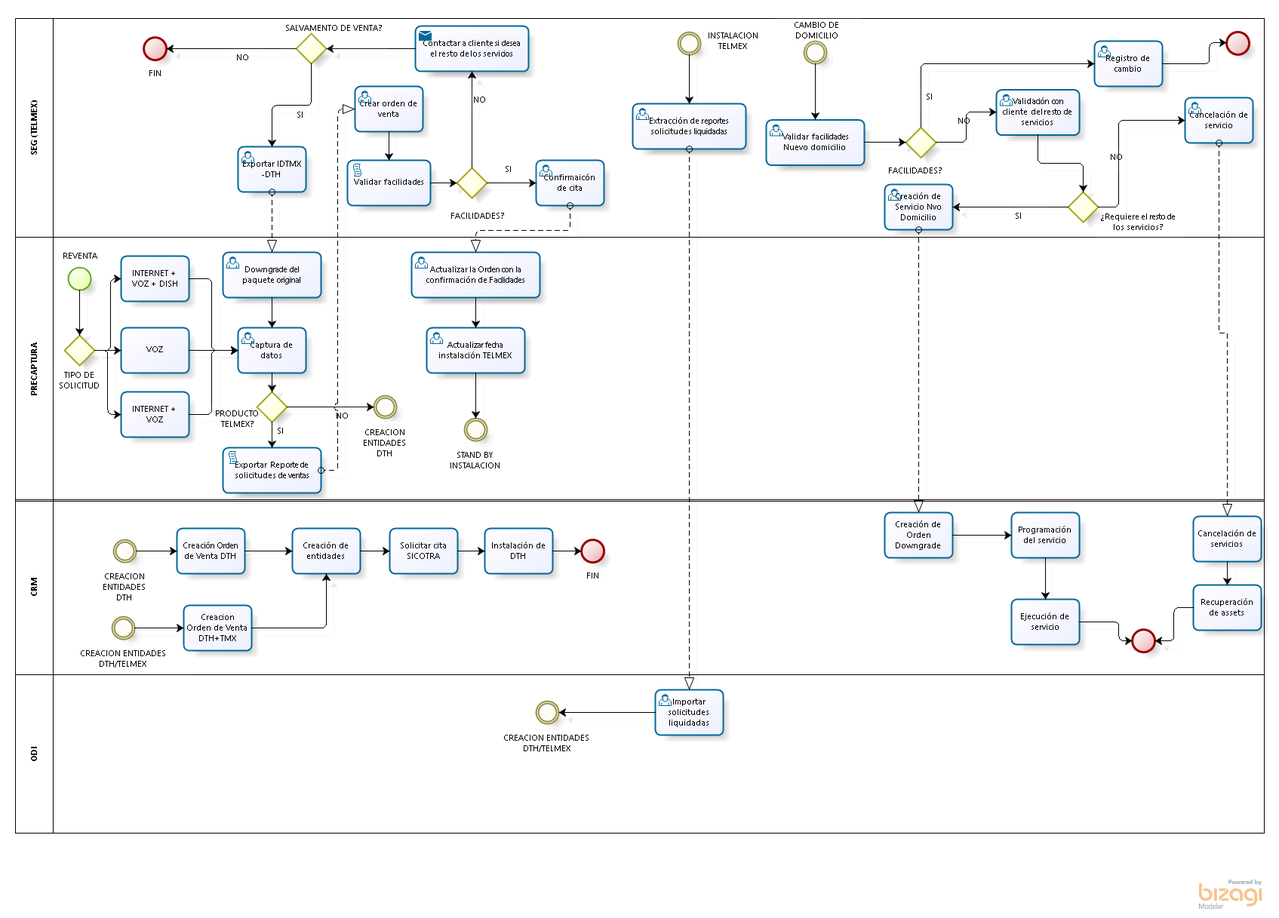
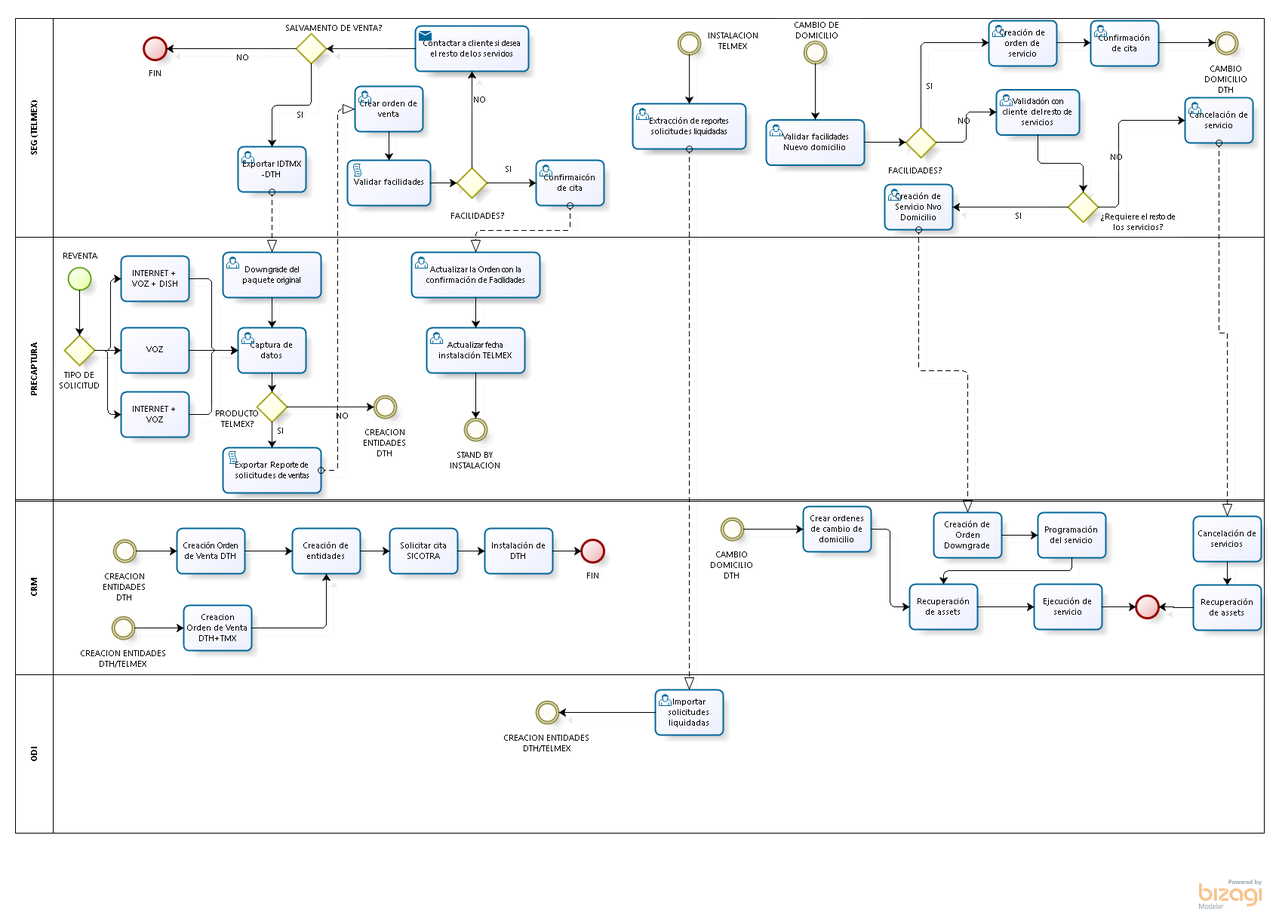
Add files via upload

diff --git a/libs/js/json/configuration.json.js b/libs/js/json/configuration.json.js
@@ -1,1 +1,1 @@
-Bizagi.AppModel = {"personalized":false,"userLogoName":"\\libs\\img\\biz-ex-logo.png","bizagiUrl":"http://www.bizagi.com","productName":"Bizagi Modeler","modelName":"DISH-NEXT_VENTA-CAMBIO DOMICILIO","publishDate":"26/02/2018 11:54:19 a. m.","pages":[{"id":"7cb50fa5-7a3c-45aa-be1c-2d9583645de9","name":"DISH-NEXT_VENTA-CAMBIO DOMICILIO","version":"1.0","author":"gabriel.lujano","image":"files\\diagrams\\DISH_NEXT_VENTA_CAMBIO_DOMICILIO.png","isSubprocessPage":false,"elements":[{"id":"93e064cd-c629-4cf5-a039-03b3dc27eac9","name":"SEG (TELMEX)","elementImage":"files\\bpmnElements\\Participant.png","imageBounds":{"points":[{"x":20.0,"y":24.0}],"radius":0.0,"height":290.0,"width":50.0,"shape":"rect"},"elementType":"Participant","properties":[],"pageElements":[{"id":"29b2dd46-ac85-41be-8745-073ad0f5984a","name":"CAMBIO DE DOMICILIO","elementImage":"files\\bpmnElements\\NoneIntermediate.png","imageBounds":{"points":[{"x":1065.0,"y":54.0}],"radius":15.0,"height":30.0,"width":30.0,"shape":"circle"},"elementType":"NoneIntermediate"},{"id":"8a56f3c5-ad15-4adf-b8b0-2a1c09bd55dc","name":"Validar  facilidades Nuevo domicilio","elementImage":"files\\bpmnElements\\UserTask.png","imageBounds":{"points":[{"x":1015.0,"y":158.444458}],"radius":0.0,"height":60.0,"width":130.0,"shape":"rect"},"elementType":"UserTask","properties":[]},{"id":"f31167ef-3e58-4c0e-a348-99304c43ca87","name":"FACILIDADES?","elementImage":"files\\bpmnElements\\ExclusiveGateway.png","imageBounds":{"points":[{"x":1200.0,"y":168.444458}],"radius":0.0,"height":40.0,"width":40.0,"shape":"poly"},"elementType":"ExclusiveGateway","properties":[],"pageElements":[{"name":"SI","elementType":"SequenceFlow","properties":[]},{"name":"NO","elementType":"SequenceFlow","properties":[]}]},{"id":"598e9e10-8f21-4f8a-815e-d01702e80421","name":"Validación con cliente  del resto de servicios","elementImage":"files\\bpmnElements\\UserTask.png","imageBounds":{"points":[{"x":1320.0,"y":118.444458}],"radius":0.0,"height":60.0,"width":110.0,"shape":"rect"},"elementType":"UserTask","properties":[]},{"id":"0ee065b0-9332-41a6-83a8-d59f9b373b6a","name":"¿Requiere el resto de los servicios?","elementImage":"files\\bpmnElements\\ExclusiveGateway.png","imageBounds":{"points":[{"x":1415.0,"y":254.0}],"radius":0.0,"height":40.0,"width":40.0,"shape":"poly"},"elementType":"ExclusiveGateway","properties":[],"pageElements":[{"name":"NO","elementType":"SequenceFlow","properties":[]},{"name":"SI","elementType":"SequenceFlow","properties":[]}]},{"id":"f0bffaee-71be-48f2-b4c1-9a22539a86d5","name":"Cancelación de servicio","elementImage":"files\\bpmnElements\\UserTask.png","imageBounds":{"points":[{"x":1570.0,"y":129.0}],"radius":0.0,"height":60.0,"width":90.0,"shape":"rect"},"elementType":"UserTask","properties":[]},{"id":"acc53f19-4f12-4bd7-89dd-0b43406d8d4f","name":"Registro de cambio","elementImage":"files\\bpmnElements\\UserTask.png","imageBounds":{"points":[{"x":1450.0,"y":54.0}],"radius":0.0,"height":60.0,"width":90.0,"shape":"rect"},"elementType":"UserTask","properties":[]},{"id":"f325c80d-65c0-476e-b683-92867bfa0efb","name":"Event","elementImage":"files\\bpmnElements\\NoneEnd.png","imageBounds":{"points":[{"x":1625.0,"y":41.77778}],"radius":15.0,"height":30.0,"width":30.0,"shape":"circle"},"elementType":"NoneEnd"},{"id":"e77a9377-ff3c-443c-bf80-e8d5c8d0941c","name":"Crear orden de venta","elementImage":"files\\bpmnElements\\UserTask.png","imageBounds":{"points":[{"x":470.0,"y":114.0}],"radius":0.0,"height":60.0,"width":90.0,"shape":"rect"},"elementType":"UserTask","properties":[]},{"id":"4dfccb45-7921-4bf5-9c07-d224dc0bb866","name":"Validar  facilidades","elementImage":"files\\bpmnElements\\ScriptTask.png","imageBounds":{"points":[{"x":460.0,"y":212.0}],"radius":0.0,"height":60.0,"width":110.0,"shape":"rect"},"elementType":"ScriptTask","properties":[]},{"id":"2c8036f7-3e22-478b-9892-5d5232a3b2d0","name":"FACILIDADES?","elementImage":"files\\bpmnElements\\ExclusiveGateway.png","imageBounds":{"points":[{"x":605.0,"y":222.0}],"radius":0.0,"height":40.0,"width":40.0,"shape":"poly"},"elementType":"ExclusiveGateway","properties":[],"pageElements":[{"name":"NO","elementType":"SequenceFlow","properties":[]},{"name":"SI","elementType":"SequenceFlow","properties":[]}]},{"id":"26c36fce-854c-45a4-9187-e0244161bcdf","name":"Contactar a cliente si desea el resto de los servicios","elementImage":"files\\bpmnElements\\SendTask.png","imageBounds":{"points":[{"x":550.0,"y":34.0}],"radius":0.0,"height":60.0,"width":150.0,"shape":"rect"},"elementType":"SendTask","properties":[{"id":"SendTaskImplementation","name":"Implementation","value":"WebService","type":"text"}]},{"id":"21fc4a87-d1b8-4bb2-acf2-2b48f1f00034","name":"SALVAMENTO DE VENTA?","elementImage":"files\\bpmnElements\\ExclusiveGateway.png","imageBounds":{"points":[{"x":392.0,"y":44.0}],"radius":0.0,"height":40.0,"width":40.0,"shape":"poly"},"elementType":"ExclusiveGateway","properties":[],"pageElements":[{"name":"NO","elementType":"SequenceFlow","properties":[]},{"name":"SI","elementType":"SequenceFlow","properties":[]}]},{"id":"dc6120c9-fd25-4e48-9eca-cac9e8092c54","name":"FIN","elementImage":"files\\bpmnElements\\NoneEnd.png","imageBounds":{"points":[{"x":190.0,"y":49.0}],"radius":15.0,"height":30.0,"width":30.0,"shape":"circle"},"elementType":"NoneEnd"},{"id":"b319792c-57cc-47d5-88d2-d68802c5dacb","name":"Confirmaicón de cita","elementImage":"files\\bpmnElements\\UserTask.png","imageBounds":{"points":[{"x":710.0,"y":212.0}],"radius":0.0,"height":60.0,"width":90.0,"shape":"rect"},"elementType":"UserTask","properties":[]},{"id":"0819e974-5805-4c60-904a-944859449d3f","name":"Creación de Servicio Nvo Domicilio","elementImage":"files\\bpmnElements\\UserTask.png","imageBounds":{"points":[{"x":1172.0,"y":244.0}],"radius":0.0,"height":60.0,"width":90.0,"shape":"rect"},"elementType":"UserTask","properties":[]},{"id":"45daec74-d1b5-4f09-9f84-82a99672325a","name":"Exportar IDTMX-DTH","elementImage":"files\\bpmnElements\\UserTask.png","imageBounds":{"points":[{"x":315.0,"y":194.0}],"radius":0.0,"height":60.0,"width":90.0,"shape":"rect"},"elementType":"UserTask","properties":[]},{"id":"3f8dc354-4ab1-4fbc-ac39-2dab57a00afa","name":"INSTALACION TELMEX","elementImage":"files\\bpmnElements\\NoneIntermediate.png","imageBounds":{"points":[{"x":898.0,"y":42.0}],"radius":15.0,"height":30.0,"width":30.0,"shape":"circle"},"elementType":"NoneIntermediate"},{"id":"7be1b341-8886-430c-bfd1-7e8eb0e116a4","name":"Extracción de reportes  solicitudes liquidadas","elementImage":"files\\bpmnElements\\UserTask.png","imageBounds":{"points":[{"x":838.0,"y":137.0}],"radius":0.0,"height":60.0,"width":150.0,"shape":"rect"},"elementType":"UserTask","properties":[]}]},{"id":"61bb27a2-3c1c-44e7-8fe9-9b02062eb794","name":"PRECAPTURA","elementImage":"files\\bpmnElements\\Participant.png","imageBounds":{"points":[{"x":20.0,"y":314.0}],"radius":0.0,"height":350.0,"width":50.0,"shape":"rect"},"elementType":"Participant","properties":[],"pageElements":[{"id":"601c1d0b-8e19-4b3e-9f3c-c071c3dc214e","name":"Event","elementImage":"files\\bpmnElements\\NoneStart.png","imageBounds":{"points":[{"x":90.0,"y":354.0}],"radius":15.0,"height":30.0,"width":30.0,"shape":"circle"},"elementType":"NoneStart"},{"id":"21f8afb0-a697-4f5a-9d4a-7888ab6b1f29","name":"TIPO DE SOLICITUD","elementImage":"files\\bpmnElements\\ExclusiveGateway.png","imageBounds":{"points":[{"x":85.0,"y":444.0}],"radius":0.0,"height":40.0,"width":40.0,"shape":"poly"},"elementType":"ExclusiveGateway","properties":[],"pageElements":[{"name":"VOZ","elementType":"SequenceFlow","properties":[]},{"name":"INTERNET + VOZ + DISH","elementType":"SequenceFlow","properties":[]},{"name":"INTERNET +  VOZ","elementType":"SequenceFlow","properties":[]}]},{"id":"ddacde49-5ae2-44d4-8fa7-fa46bc08dbd2","name":"VOZ","elementImage":"files\\bpmnElements\\AbstractTask.png","imageBounds":{"points":[{"x":160.0,"y":434.0}],"radius":0.0,"height":60.0,"width":90.0,"shape":"rect"},"elementType":"AbstractTask","properties":[]},{"id":"e2fbc10d-141e-4c3e-8de6-b02dd73b6629","name":"INTERNET + VOZ + DISH","elementImage":"files\\bpmnElements\\AbstractTask.png","imageBounds":{"points":[{"x":160.0,"y":339.0}],"radius":0.0,"height":60.0,"width":90.0,"shape":"rect"},"elementType":"AbstractTask","properties":[]},{"id":"f9f49f72-6207-4fb8-81ad-ed5b83daf9f1","name":"INTERNET +  VOZ","elementImage":"files\\bpmnElements\\AbstractTask.png","imageBounds":{"points":[{"x":160.0,"y":519.0}],"radius":0.0,"height":60.0,"width":90.0,"shape":"rect"},"elementType":"AbstractTask","properties":[]},{"id":"9ef95241-d4d6-4733-b77e-d209d63d24c7","name":"Downgrade del paquete original","elementImage":"files\\bpmnElements\\UserTask.png","imageBounds":{"points":[{"x":295.0,"y":334.0}],"radius":0.0,"height":60.0,"width":130.0,"shape":"rect"},"elementType":"UserTask","properties":[]},{"id":"256f5ab5-7436-4788-8b88-8d0a8ed46b7a","name":"Captura de datos","elementImage":"files\\bpmnElements\\UserTask.png","imageBounds":{"points":[{"x":315.0,"y":434.0}],"radius":0.0,"height":60.0,"width":90.0,"shape":"rect"},"elementType":"UserTask","properties":[]},{"id":"cfb941a8-4012-4174-97d4-6598748a3e4d","name":"PRODUCTO TELMEX?","elementImage":"files\\bpmnElements\\ExclusiveGateway.png","imageBounds":{"points":[{"x":340.0,"y":519.0}],"radius":0.0,"height":40.0,"width":40.0,"shape":"poly"},"elementType":"ExclusiveGateway","properties":[],"pageElements":[{"name":"SI","elementType":"SequenceFlow","properties":[]},{"name":"NO","elementType":"SequenceFlow","properties":[]}]},{"id":"df2d2a26-b8e1-4b58-a849-efcc2fe1d782","name":"Exportar  Reporte de solicitudes de ventas","elementImage":"files\\bpmnElements\\ScriptTask.png","imageBounds":{"points":[{"x":295.0,"y":593.0}],"radius":0.0,"height":60.0,"width":130.0,"shape":"rect"},"elementType":"ScriptTask","properties":[]},{"id":"b3f08775-b814-41f3-9c72-0837a99544e7","name":"Actualizar la Orden con la confirmación de Facilidades","elementImage":"files\\bpmnElements\\UserTask.png","imageBounds":{"points":[{"x":545.0,"y":334.0}],"radius":0.0,"height":60.0,"width":170.0,"shape":"rect"},"elementType":"UserTask","properties":[]},{"id":"d8f90e6f-49fa-4cf5-86f4-3f4b59e9bf58","name":"Actualizar fecha instalación TELMEX","elementImage":"files\\bpmnElements\\UserTask.png","imageBounds":{"points":[{"x":565.0,"y":434.0}],"radius":0.0,"height":60.0,"width":130.0,"shape":"rect"},"elementType":"UserTask","properties":[]},{"id":"7c8f5203-5f09-48ef-81a6-0b441251ffeb","name":"CREACION ENTIDADES DTH","elementImage":"files\\bpmnElements\\NoneIntermediate.png","imageBounds":{"points":[{"x":495.0,"y":524.0}],"radius":15.0,"height":30.0,"width":30.0,"shape":"circle"},"elementType":"NoneIntermediate"},{"id":"9d3bbc49-652e-464e-a19c-f2a67faa8e94","name":"STAND BY INSTALACION","elementImage":"files\\bpmnElements\\NoneIntermediate.png","imageBounds":{"points":[{"x":615.0,"y":554.0}],"radius":15.0,"height":30.0,"width":30.0,"shape":"circle"},"elementType":"NoneIntermediate"}]},{"id":"160b53e7-1fde-4417-ab4a-280543cc1820","name":"CRM","elementImage":"files\\bpmnElements\\Participant.png","imageBounds":{"points":[{"x":20.0,"y":662.0}],"radius":0.0,"height":232.0,"width":50.0,"shape":"rect"},"elementType":"Participant","properties":[],"pageElements":[{"id":"44122ce0-51f7-4ca6-9b0d-4d5b24743c73","name":"Creación de entidades","elementImage":"files\\bpmnElements\\AbstractTask.png","imageBounds":{"points":[{"x":387.0,"y":700.0}],"radius":0.0,"height":60.0,"width":90.0,"shape":"rect"},"elementType":"AbstractTask","properties":[]},{"id":"55fe1bdd-03b1-449e-833f-d05f4fcd7d9b","name":"FIN","elementImage":"files\\bpmnElements\\NoneEnd.png","imageBounds":{"points":[{"x":770.0,"y":715.0}],"radius":15.0,"height":30.0,"width":30.0,"shape":"circle"},"elementType":"NoneEnd"},{"id":"0a791ef5-bc81-49a5-a3da-fd4cfd7029e6","name":"Programación del servicio","elementImage":"files\\bpmnElements\\AbstractTask.png","imageBounds":{"points":[{"x":1340.0,"y":679.0}],"radius":0.0,"height":60.0,"width":90.0,"shape":"rect"},"elementType":"AbstractTask","properties":[]},{"id":"d1162d1f-9448-429c-8473-ae6ac31399bf","name":"Ejecución de servicio","elementImage":"files\\bpmnElements\\AbstractTask.png","imageBounds":{"points":[{"x":1340.0,"y":794.0}],"radius":0.0,"height":60.0,"width":90.0,"shape":"rect"},"elementType":"AbstractTask","properties":[]},{"id":"e2adbab7-5505-46c1-bc6e-a09f9c56946e","name":"Cancelación de servicios","elementImage":"files\\bpmnElements\\AbstractTask.png","imageBounds":{"points":[{"x":1581.0,"y":684.0}],"radius":0.0,"height":60.0,"width":90.0,"shape":"rect"},"elementType":"AbstractTask","properties":[]},{"id":"01e534e1-b53f-45c2-9838-3acd71c2b958","name":"Event","elementImage":"files\\bpmnElements\\NoneEnd.png","imageBounds":{"points":[{"x":1500.0,"y":834.0}],"radius":15.0,"height":30.0,"width":30.0,"shape":"circle"},"elementType":"NoneEnd"},{"id":"cc1445f6-6a79-4873-9ddd-98e4d60ec6e3","name":"Creación de Orden Downgrade","elementImage":"files\\bpmnElements\\AbstractTask.png","imageBounds":{"points":[{"x":1172.0,"y":679.0}],"radius":0.0,"height":60.0,"width":90.0,"shape":"rect"},"elementType":"AbstractTask","properties":[]},{"id":"4623ca73-1e5b-4260-8541-f18c4fc24b88","name":"CREACION ENTIDADES DTH","elementImage":"files\\bpmnElements\\NoneIntermediate.png","imageBounds":{"points":[{"x":150.0,"y":715.0}],"radius":15.0,"height":30.0,"width":30.0,"shape":"circle"},"elementType":"NoneIntermediate"},{"id":"ad23f92e-bb24-4e8e-b37b-ffbf5ba85b90","name":"Creación Orden de Venta DTH","elementImage":"files\\bpmnElements\\AbstractTask.png","imageBounds":{"points":[{"x":234.0,"y":700.0}],"radius":0.0,"height":60.0,"width":90.0,"shape":"rect"},"elementType":"AbstractTask","properties":[]},{"id":"9f5be219-9289-421a-8be5-4b26ff894f86","name":"CREACION ENTIDADES  DTH/TELMEX","elementImage":"files\\bpmnElements\\NoneIntermediate.png","imageBounds":{"points":[{"x":148.0,"y":817.0}],"radius":15.0,"height":30.0,"width":30.0,"shape":"circle"},"elementType":"NoneIntermediate"},{"id":"10987a7f-196f-413f-988e-0fb62289c49e","name":"Creacion  Orden de Venta DTH+TMX","elementImage":"files\\bpmnElements\\AbstractTask.png","imageBounds":{"points":[{"x":243.0,"y":802.0}],"radius":0.0,"height":60.0,"width":90.0,"shape":"rect"},"elementType":"AbstractTask","properties":[]},{"id":"fda1c841-83f0-44a7-8141-919d2be2f7d8","name":"Solicitar cita SICOTRA","elementImage":"files\\bpmnElements\\AbstractTask.png","imageBounds":{"points":[{"x":516.0,"y":700.0}],"radius":0.0,"height":60.0,"width":90.0,"shape":"rect"},"elementType":"AbstractTask","properties":[]},{"id":"325657fa-8fec-433c-8c7e-7a5137c19567","name":"Instalación de DTH","elementImage":"files\\bpmnElements\\AbstractTask.png","imageBounds":{"points":[{"x":642.0,"y":700.0}],"radius":0.0,"height":60.0,"width":90.0,"shape":"rect"},"elementType":"AbstractTask","properties":[]},{"id":"cc4b4262-dc74-4fce-8e33-9af2ae756a2e","name":"Recuperación de assets","elementImage":"files\\bpmnElements\\AbstractTask.png","imageBounds":{"points":[{"x":1581.0,"y":775.0}],"radius":0.0,"height":60.0,"width":90.0,"shape":"rect"},"elementType":"AbstractTask","properties":[]}]},{"id":"bd2d35d8-77a2-49b0-9a4a-4ad3ebb2ca4c","name":"ODI","elementImage":"files\\bpmnElements\\Participant.png","imageBounds":{"points":[{"x":20.0,"y":894.0}],"radius":0.0,"height":210.0,"width":50.0,"shape":"rect"},"elementType":"Participant","properties":[],"pageElements":[{"id":"387c8582-21ab-43be-bb01-14489b8d60e3","name":"Importar solicitudes  liquidadas","elementImage":"files\\bpmnElements\\UserTask.png","imageBounds":{"points":[{"x":868.0,"y":914.0}],"radius":0.0,"height":60.0,"width":90.0,"shape":"rect"},"elementType":"UserTask","properties":[]},{"id":"57cd7388-bf6b-4f4e-8ec6-513bf64941ad","name":"CREACION ENTIDADES  DTH/TELMEX","elementImage":"files\\bpmnElements\\NoneIntermediate.png","imageBounds":{"points":[{"x":710.0,"y":929.0}],"radius":15.0,"height":30.0,"width":30.0,"shape":"circle"},"elementType":"NoneIntermediate"}]}]}],"texts":{"tableOfContents":"Table of Contents","pageNumber":"Page","pageNumberLabelOf":"of","version":"Version","author":"Author","description":"Description","mainPool":"Main Process","mainPoolDescription":"Main Process Description","processDiagrams":"Process Diagrams","processElements":"Process Elements","elements":"Process Elements","defaultElementName":"Element","performers":"Performers","connectors":"Connectors","connector":"Connector","home":"Home","search":"Search","goToParentProcess":"<< Go to Parent Process","visitBizagi":"Visit bizagi.com","contains":"Contains {0} Sub-Processes","showAll":"Show all","fullScreen":"Full screen","zoomIn":"Zoom In","zoomOut":"Zoom Out","close":"Close","menu":"Menu: ","errorPage":"Error when visualizing page","process":"Process","subProcess":"Published Sub-Processes","contain":"Contains","checkAttributes":"Check attributes","checkOverview":"Check overview","unavailableResource":"Unavailable resource","localResource":"Resource can be accessed locally","performer":"Performer","linktoimage":"Link to Image","presentationAction":"Presentation Actions","searchGlobal":"Search all","searchLocal":"Search in this process","searchResults":"No Results Found","titlePage":"Start","emptyElement":"This element has not yet been documented","unsupported":"Your browser does not support content displayed by this page. <br> We recommend you upgrading your browser.","details":"Details","expand":"Expand","mainPoolProperties":"Main Process properties","cannotVisualize":"The page cannot be displayed","resourceNotFound":"The requested resource was not found:","applyTheme":"Applying new theme"},"searchMap":[{"containerId":"7cb50fa5-7a3c-45aa-be1c-2d9583645de9","containerName":"DISH-NEXT_VENTA-CAMBIO DOMICILIO","isSubprocess":false,"elements":[{"id":"93e064cd-c629-4cf5-a039-03b3dc27eac9","value":"SEG (TELMEX)"},{"id":"f31167ef-3e58-4c0e-a348-99304c43ca87","value":"FACILIDADES?"},{"id":"f325c80d-65c0-476e-b683-92867bfa0efb","value":""},{"id":"e77a9377-ff3c-443c-bf80-e8d5c8d0941c","value":"Crear orden de venta"},{"id":"2c8036f7-3e22-478b-9892-5d5232a3b2d0","value":"FACILIDADES?"},{"id":"4dfccb45-7921-4bf5-9c07-d224dc0bb866","value":"Validar  facilidades"},{"id":"21fc4a87-d1b8-4bb2-acf2-2b48f1f00034","value":"SALVAMENTO DE VENTA?"},{"id":"dc6120c9-fd25-4e48-9eca-cac9e8092c54","value":"FIN"},{"id":"0ee065b0-9332-41a6-83a8-d59f9b373b6a","value":"¿Requiere el resto de los servicios?"},{"id":"29b2dd46-ac85-41be-8745-073ad0f5984a","value":"CAMBIO DE DOMICILIO"},{"id":"b319792c-57cc-47d5-88d2-d68802c5dacb","value":"Confirmaicón de cita"},{"id":"3f8dc354-4ab1-4fbc-ac39-2dab57a00afa","value":"INSTALACION TELMEX"},{"id":"7be1b341-8886-430c-bfd1-7e8eb0e116a4","value":"Extracción de reportes  solicitudes liquidadas"},{"id":"26c36fce-854c-45a4-9187-e0244161bcdf","value":"Contactar a cliente si desea el resto de los servicios"},{"id":"0819e974-5805-4c60-904a-944859449d3f","value":"Creación de Servicio Nvo Domicilio"},{"id":"598e9e10-8f21-4f8a-815e-d01702e80421","value":"Validación con cliente  del resto de servicios"},{"id":"acc53f19-4f12-4bd7-89dd-0b43406d8d4f","value":"Registro de cambio"},{"id":"f0bffaee-71be-48f2-b4c1-9a22539a86d5","value":"Cancelación de servicio"},{"id":"45daec74-d1b5-4f09-9f84-82a99672325a","value":"Exportar IDTMX-DTH"},{"id":"8a56f3c5-ad15-4adf-b8b0-2a1c09bd55dc","value":"Validar  facilidades Nuevo domicilio"},{"id":"61bb27a2-3c1c-44e7-8fe9-9b02062eb794","value":"PRECAPTURA"},{"id":"601c1d0b-8e19-4b3e-9f3c-c071c3dc214e","value":""},{"id":"f9f49f72-6207-4fb8-81ad-ed5b83daf9f1","value":"INTERNET +  VOZ"},{"id":"ddacde49-5ae2-44d4-8fa7-fa46bc08dbd2","value":"VOZ"},{"id":"e2fbc10d-141e-4c3e-8de6-b02dd73b6629","value":"INTERNET + VOZ + DISH"},{"id":"21f8afb0-a697-4f5a-9d4a-7888ab6b1f29","value":"TIPO DE SOLICITUD"},{"id":"256f5ab5-7436-4788-8b88-8d0a8ed46b7a","value":"Captura de datos"},{"id":"df2d2a26-b8e1-4b58-a849-efcc2fe1d782","value":"Exportar  Reporte de solicitudes de ventas"},{"id":"cfb941a8-4012-4174-97d4-6598748a3e4d","value":"PRODUCTO TELMEX?"},{"id":"b3f08775-b814-41f3-9c72-0837a99544e7","value":"Actualizar la Orden con la confirmación de Facilidades"},{"id":"7c8f5203-5f09-48ef-81a6-0b441251ffeb","value":"CREACION ENTIDADES DTH"},{"id":"9ef95241-d4d6-4733-b77e-d209d63d24c7","value":"Downgrade del paquete original"},{"id":"d8f90e6f-49fa-4cf5-86f4-3f4b59e9bf58","value":"Actualizar fecha instalación TELMEX"},{"id":"9d3bbc49-652e-464e-a19c-f2a67faa8e94","value":"STAND BY INSTALACION"},{"id":"160b53e7-1fde-4417-ab4a-280543cc1820","value":"CRM"},{"id":"44122ce0-51f7-4ca6-9b0d-4d5b24743c73","value":"Creación de entidades"},{"id":"55fe1bdd-03b1-449e-833f-d05f4fcd7d9b","value":"FIN"},{"id":"d1162d1f-9448-429c-8473-ae6ac31399bf","value":"Ejecución de servicio"},{"id":"01e534e1-b53f-45c2-9838-3acd71c2b958","value":""},{"id":"0a791ef5-bc81-49a5-a3da-fd4cfd7029e6","value":"Programación del servicio"},{"id":"e2adbab7-5505-46c1-bc6e-a09f9c56946e","value":"Cancelación de servicios"},{"id":"cc1445f6-6a79-4873-9ddd-98e4d60ec6e3","value":"Creación de Orden Downgrade"},{"id":"4623ca73-1e5b-4260-8541-f18c4fc24b88","value":"CREACION ENTIDADES DTH"},{"id":"fda1c841-83f0-44a7-8141-919d2be2f7d8","value":"Solicitar cita SICOTRA"},{"id":"325657fa-8fec-433c-8c7e-7a5137c19567","value":"Instalación de DTH"},{"id":"9f5be219-9289-421a-8be5-4b26ff894f86","value":"CREACION ENTIDADES  DTH/TELMEX"},{"id":"10987a7f-196f-413f-988e-0fb62289c49e","value":"Creacion  Orden de Venta DTH+TMX"},{"id":"ad23f92e-bb24-4e8e-b37b-ffbf5ba85b90","value":"Creación Orden de Venta DTH"},{"id":"cc4b4262-dc74-4fce-8e33-9af2ae756a2e","value":"Recuperación de assets"},{"id":"bd2d35d8-77a2-49b0-9a4a-4ad3ebb2ca4c","value":"ODI"},{"id":"57cd7388-bf6b-4f4e-8ec6-513bf64941ad","value":"CREACION ENTIDADES  DTH/TELMEX"},{"id":"387c8582-21ab-43be-bb01-14489b8d60e3","value":"Importar solicitudes  liquidadas"}]}]}
+Bizagi.AppModel = {"personalized":false,"userLogoName":"\\libs\\img\\biz-ex-logo.png","bizagiUrl":"http://www.bizagi.com","productName":"Bizagi Modeler","modelName":"DISH-NEXT_VENTA-CAMBIO DOMICILIO","publishDate":"27/02/2018 11:08:00 a. m.","pages":[{"id":"7cb50fa5-7a3c-45aa-be1c-2d9583645de9","name":"DISH-NEXT_VENTA-CAMBIO DOMICILIO","version":"1.0","author":"gabriel.lujano","image":"files\\diagrams\\DISH_NEXT_VENTA_CAMBIO_DOMICILIO.png","isSubprocessPage":false,"elements":[{"id":"93e064cd-c629-4cf5-a039-03b3dc27eac9","name":"SEG (TELMEX)","elementImage":"files\\bpmnElements\\Participant.png","imageBounds":{"points":[{"x":20.0,"y":24.0}],"radius":0.0,"height":290.0,"width":50.0,"shape":"rect"},"elementType":"Participant","properties":[],"pageElements":[{"id":"29b2dd46-ac85-41be-8745-073ad0f5984a","name":"CAMBIO DE DOMICILIO","elementImage":"files\\bpmnElements\\NoneIntermediate.png","imageBounds":{"points":[{"x":1065.0,"y":54.0}],"radius":15.0,"height":30.0,"width":30.0,"shape":"circle"},"elementType":"NoneIntermediate"},{"id":"8a56f3c5-ad15-4adf-b8b0-2a1c09bd55dc","name":"Validar  facilidades Nuevo domicilio","elementImage":"files\\bpmnElements\\UserTask.png","imageBounds":{"points":[{"x":1015.0,"y":158.444458}],"radius":0.0,"height":60.0,"width":130.0,"shape":"rect"},"elementType":"UserTask","properties":[]},{"id":"f31167ef-3e58-4c0e-a348-99304c43ca87","name":"FACILIDADES?","elementImage":"files\\bpmnElements\\ExclusiveGateway.png","imageBounds":{"points":[{"x":1200.0,"y":168.444458}],"radius":0.0,"height":40.0,"width":40.0,"shape":"poly"},"elementType":"ExclusiveGateway","properties":[],"pageElements":[{"name":"SI","elementType":"SequenceFlow","properties":[]},{"name":"NO","elementType":"SequenceFlow","properties":[]}]},{"id":"598e9e10-8f21-4f8a-815e-d01702e80421","name":"Validación con cliente  del resto de servicios","elementImage":"files\\bpmnElements\\UserTask.png","imageBounds":{"points":[{"x":1320.0,"y":118.444458}],"radius":0.0,"height":60.0,"width":110.0,"shape":"rect"},"elementType":"UserTask","properties":[]},{"id":"0ee065b0-9332-41a6-83a8-d59f9b373b6a","name":"¿Requiere el resto de los servicios?","elementImage":"files\\bpmnElements\\ExclusiveGateway.png","imageBounds":{"points":[{"x":1415.0,"y":254.0}],"radius":0.0,"height":40.0,"width":40.0,"shape":"poly"},"elementType":"ExclusiveGateway","properties":[],"pageElements":[{"name":"NO","elementType":"SequenceFlow","properties":[]},{"name":"SI","elementType":"SequenceFlow","properties":[]}]},{"id":"f0bffaee-71be-48f2-b4c1-9a22539a86d5","name":"Cancelación de servicio","elementImage":"files\\bpmnElements\\UserTask.png","imageBounds":{"points":[{"x":1570.0,"y":129.0}],"radius":0.0,"height":60.0,"width":90.0,"shape":"rect"},"elementType":"UserTask","properties":[]},{"id":"acc53f19-4f12-4bd7-89dd-0b43406d8d4f","name":"Creación de orden de servicio","elementImage":"files\\bpmnElements\\UserTask.png","imageBounds":{"points":[{"x":1310.0,"y":26.7777786}],"radius":0.0,"height":60.0,"width":90.0,"shape":"rect"},"elementType":"UserTask","properties":[]},{"id":"e77a9377-ff3c-443c-bf80-e8d5c8d0941c","name":"Crear orden de venta","elementImage":"files\\bpmnElements\\UserTask.png","imageBounds":{"points":[{"x":470.0,"y":114.0}],"radius":0.0,"height":60.0,"width":90.0,"shape":"rect"},"elementType":"UserTask","properties":[]},{"id":"4dfccb45-7921-4bf5-9c07-d224dc0bb866","name":"Validar  facilidades","elementImage":"files\\bpmnElements\\ScriptTask.png","imageBounds":{"points":[{"x":460.0,"y":212.0}],"radius":0.0,"height":60.0,"width":110.0,"shape":"rect"},"elementType":"ScriptTask","properties":[]},{"id":"2c8036f7-3e22-478b-9892-5d5232a3b2d0","name":"FACILIDADES?","elementImage":"files\\bpmnElements\\ExclusiveGateway.png","imageBounds":{"points":[{"x":605.0,"y":222.0}],"radius":0.0,"height":40.0,"width":40.0,"shape":"poly"},"elementType":"ExclusiveGateway","properties":[],"pageElements":[{"name":"NO","elementType":"SequenceFlow","properties":[]},{"name":"SI","elementType":"SequenceFlow","properties":[]}]},{"id":"26c36fce-854c-45a4-9187-e0244161bcdf","name":"Contactar a cliente si desea el resto de los servicios","elementImage":"files\\bpmnElements\\SendTask.png","imageBounds":{"points":[{"x":550.0,"y":34.0}],"radius":0.0,"height":60.0,"width":150.0,"shape":"rect"},"elementType":"SendTask","properties":[{"id":"SendTaskImplementation","name":"Implementation","value":"WebService","type":"text"}]},{"id":"21fc4a87-d1b8-4bb2-acf2-2b48f1f00034","name":"SALVAMENTO DE VENTA?","elementImage":"files\\bpmnElements\\ExclusiveGateway.png","imageBounds":{"points":[{"x":392.0,"y":44.0}],"radius":0.0,"height":40.0,"width":40.0,"shape":"poly"},"elementType":"ExclusiveGateway","properties":[],"pageElements":[{"name":"NO","elementType":"SequenceFlow","properties":[]},{"name":"SI","elementType":"SequenceFlow","properties":[]}]},{"id":"dc6120c9-fd25-4e48-9eca-cac9e8092c54","name":"FIN","elementImage":"files\\bpmnElements\\NoneEnd.png","imageBounds":{"points":[{"x":190.0,"y":49.0}],"radius":15.0,"height":30.0,"width":30.0,"shape":"circle"},"elementType":"NoneEnd"},{"id":"b319792c-57cc-47d5-88d2-d68802c5dacb","name":"Confirmaicón de cita","elementImage":"files\\bpmnElements\\UserTask.png","imageBounds":{"points":[{"x":710.0,"y":212.0}],"radius":0.0,"height":60.0,"width":90.0,"shape":"rect"},"elementType":"UserTask","properties":[]},{"id":"0819e974-5805-4c60-904a-944859449d3f","name":"Creación de Servicio Nvo Domicilio","elementImage":"files\\bpmnElements\\UserTask.png","imageBounds":{"points":[{"x":1172.0,"y":244.0}],"radius":0.0,"height":60.0,"width":90.0,"shape":"rect"},"elementType":"UserTask","properties":[]},{"id":"45daec74-d1b5-4f09-9f84-82a99672325a","name":"Exportar IDTMX-DTH","elementImage":"files\\bpmnElements\\UserTask.png","imageBounds":{"points":[{"x":315.0,"y":194.0}],"radius":0.0,"height":60.0,"width":90.0,"shape":"rect"},"elementType":"UserTask","properties":[]},{"id":"3f8dc354-4ab1-4fbc-ac39-2dab57a00afa","name":"INSTALACION TELMEX","elementImage":"files\\bpmnElements\\NoneIntermediate.png","imageBounds":{"points":[{"x":898.0,"y":42.0}],"radius":15.0,"height":30.0,"width":30.0,"shape":"circle"},"elementType":"NoneIntermediate"},{"id":"7be1b341-8886-430c-bfd1-7e8eb0e116a4","name":"Extracción de reportes  solicitudes liquidadas","elementImage":"files\\bpmnElements\\UserTask.png","imageBounds":{"points":[{"x":838.0,"y":137.0}],"radius":0.0,"height":60.0,"width":150.0,"shape":"rect"},"elementType":"UserTask","properties":[]},{"id":"33c91d8f-7d41-4180-ade1-7b37418c89e7","name":"Confirmación de cita","elementImage":"files\\bpmnElements\\UserTask.png","imageBounds":{"points":[{"x":1445.0,"y":26.7777786}],"radius":0.0,"height":60.0,"width":90.0,"shape":"rect"},"elementType":"UserTask","properties":[]},{"id":"217c520e-6acb-476d-832a-3e05e26f05cb","name":"CAMBIO DOMICILIO DTH","elementImage":"files\\bpmnElements\\NoneIntermediate.png","imageBounds":{"points":[{"x":1610.0,"y":41.77778}],"radius":15.0,"height":30.0,"width":30.0,"shape":"circle"},"elementType":"NoneIntermediate"}]},{"id":"61bb27a2-3c1c-44e7-8fe9-9b02062eb794","name":"PRECAPTURA","elementImage":"files\\bpmnElements\\Participant.png","imageBounds":{"points":[{"x":20.0,"y":314.0}],"radius":0.0,"height":350.0,"width":50.0,"shape":"rect"},"elementType":"Participant","properties":[],"pageElements":[{"id":"601c1d0b-8e19-4b3e-9f3c-c071c3dc214e","name":"Event","elementImage":"files\\bpmnElements\\NoneStart.png","imageBounds":{"points":[{"x":90.0,"y":354.0}],"radius":15.0,"height":30.0,"width":30.0,"shape":"circle"},"elementType":"NoneStart"},{"id":"21f8afb0-a697-4f5a-9d4a-7888ab6b1f29","name":"TIPO DE SOLICITUD","elementImage":"files\\bpmnElements\\ExclusiveGateway.png","imageBounds":{"points":[{"x":85.0,"y":444.0}],"radius":0.0,"height":40.0,"width":40.0,"shape":"poly"},"elementType":"ExclusiveGateway","properties":[],"pageElements":[{"name":"VOZ","elementType":"SequenceFlow","properties":[]},{"name":"INTERNET + VOZ + DISH","elementType":"SequenceFlow","properties":[]},{"name":"INTERNET +  VOZ","elementType":"SequenceFlow","properties":[]}]},{"id":"ddacde49-5ae2-44d4-8fa7-fa46bc08dbd2","name":"VOZ","elementImage":"files\\bpmnElements\\AbstractTask.png","imageBounds":{"points":[{"x":160.0,"y":434.0}],"radius":0.0,"height":60.0,"width":90.0,"shape":"rect"},"elementType":"AbstractTask","properties":[]},{"id":"e2fbc10d-141e-4c3e-8de6-b02dd73b6629","name":"INTERNET + VOZ + DISH","elementImage":"files\\bpmnElements\\AbstractTask.png","imageBounds":{"points":[{"x":160.0,"y":339.0}],"radius":0.0,"height":60.0,"width":90.0,"shape":"rect"},"elementType":"AbstractTask","properties":[]},{"id":"f9f49f72-6207-4fb8-81ad-ed5b83daf9f1","name":"INTERNET +  VOZ","elementImage":"files\\bpmnElements\\AbstractTask.png","imageBounds":{"points":[{"x":160.0,"y":519.0}],"radius":0.0,"height":60.0,"width":90.0,"shape":"rect"},"elementType":"AbstractTask","properties":[]},{"id":"9ef95241-d4d6-4733-b77e-d209d63d24c7","name":"Downgrade del paquete original","elementImage":"files\\bpmnElements\\UserTask.png","imageBounds":{"points":[{"x":295.0,"y":334.0}],"radius":0.0,"height":60.0,"width":130.0,"shape":"rect"},"elementType":"UserTask","properties":[]},{"id":"256f5ab5-7436-4788-8b88-8d0a8ed46b7a","name":"Captura de datos","elementImage":"files\\bpmnElements\\UserTask.png","imageBounds":{"points":[{"x":315.0,"y":434.0}],"radius":0.0,"height":60.0,"width":90.0,"shape":"rect"},"elementType":"UserTask","properties":[]},{"id":"cfb941a8-4012-4174-97d4-6598748a3e4d","name":"PRODUCTO TELMEX?","elementImage":"files\\bpmnElements\\ExclusiveGateway.png","imageBounds":{"points":[{"x":340.0,"y":519.0}],"radius":0.0,"height":40.0,"width":40.0,"shape":"poly"},"elementType":"ExclusiveGateway","properties":[],"pageElements":[{"name":"SI","elementType":"SequenceFlow","properties":[]},{"name":"NO","elementType":"SequenceFlow","properties":[]}]},{"id":"df2d2a26-b8e1-4b58-a849-efcc2fe1d782","name":"Exportar  Reporte de solicitudes de ventas","elementImage":"files\\bpmnElements\\ScriptTask.png","imageBounds":{"points":[{"x":295.0,"y":593.0}],"radius":0.0,"height":60.0,"width":130.0,"shape":"rect"},"elementType":"ScriptTask","properties":[]},{"id":"b3f08775-b814-41f3-9c72-0837a99544e7","name":"Actualizar la Orden con la confirmación de Facilidades","elementImage":"files\\bpmnElements\\UserTask.png","imageBounds":{"points":[{"x":545.0,"y":334.0}],"radius":0.0,"height":60.0,"width":170.0,"shape":"rect"},"elementType":"UserTask","properties":[]},{"id":"d8f90e6f-49fa-4cf5-86f4-3f4b59e9bf58","name":"Actualizar fecha instalación TELMEX","elementImage":"files\\bpmnElements\\UserTask.png","imageBounds":{"points":[{"x":565.0,"y":434.0}],"radius":0.0,"height":60.0,"width":130.0,"shape":"rect"},"elementType":"UserTask","properties":[]},{"id":"7c8f5203-5f09-48ef-81a6-0b441251ffeb","name":"CREACION ENTIDADES DTH","elementImage":"files\\bpmnElements\\NoneIntermediate.png","imageBounds":{"points":[{"x":495.0,"y":524.0}],"radius":15.0,"height":30.0,"width":30.0,"shape":"circle"},"elementType":"NoneIntermediate"},{"id":"9d3bbc49-652e-464e-a19c-f2a67faa8e94","name":"STAND BY INSTALACION","elementImage":"files\\bpmnElements\\NoneIntermediate.png","imageBounds":{"points":[{"x":615.0,"y":554.0}],"radius":15.0,"height":30.0,"width":30.0,"shape":"circle"},"elementType":"NoneIntermediate"}]},{"id":"160b53e7-1fde-4417-ab4a-280543cc1820","name":"CRM","elementImage":"files\\bpmnElements\\Participant.png","imageBounds":{"points":[{"x":20.0,"y":662.0}],"radius":0.0,"height":232.0,"width":50.0,"shape":"rect"},"elementType":"Participant","properties":[],"pageElements":[{"id":"44122ce0-51f7-4ca6-9b0d-4d5b24743c73","name":"Creación de entidades","elementImage":"files\\bpmnElements\\AbstractTask.png","imageBounds":{"points":[{"x":387.0,"y":700.0}],"radius":0.0,"height":60.0,"width":90.0,"shape":"rect"},"elementType":"AbstractTask","properties":[]},{"id":"55fe1bdd-03b1-449e-833f-d05f4fcd7d9b","name":"FIN","elementImage":"files\\bpmnElements\\NoneEnd.png","imageBounds":{"points":[{"x":770.0,"y":715.0}],"radius":15.0,"height":30.0,"width":30.0,"shape":"circle"},"elementType":"NoneEnd"},{"id":"0a791ef5-bc81-49a5-a3da-fd4cfd7029e6","name":"Programación del servicio","elementImage":"files\\bpmnElements\\AbstractTask.png","imageBounds":{"points":[{"x":1375.0,"y":679.0}],"radius":0.0,"height":60.0,"width":90.0,"shape":"rect"},"elementType":"AbstractTask","properties":[]},{"id":"d1162d1f-9448-429c-8473-ae6ac31399bf","name":"Ejecución de servicio","elementImage":"files\\bpmnElements\\AbstractTask.png","imageBounds":{"points":[{"x":1370.0,"y":774.0}],"radius":0.0,"height":60.0,"width":90.0,"shape":"rect"},"elementType":"AbstractTask","properties":[]},{"id":"e2adbab7-5505-46c1-bc6e-a09f9c56946e","name":"Cancelación de servicios","elementImage":"files\\bpmnElements\\AbstractTask.png","imageBounds":{"points":[{"x":1581.0,"y":684.0}],"radius":0.0,"height":60.0,"width":90.0,"shape":"rect"},"elementType":"AbstractTask","properties":[]},{"id":"01e534e1-b53f-45c2-9838-3acd71c2b958","name":"Event","elementImage":"files\\bpmnElements\\NoneEnd.png","imageBounds":{"points":[{"x":1505.0,"y":789.0}],"radius":15.0,"height":30.0,"width":30.0,"shape":"circle"},"elementType":"NoneEnd"},{"id":"cc1445f6-6a79-4873-9ddd-98e4d60ec6e3","name":"Creación de Orden Downgrade","elementImage":"files\\bpmnElements\\AbstractTask.png","imageBounds":{"points":[{"x":1237.0,"y":679.0}],"radius":0.0,"height":60.0,"width":90.0,"shape":"rect"},"elementType":"AbstractTask","properties":[]},{"id":"4623ca73-1e5b-4260-8541-f18c4fc24b88","name":"CREACION ENTIDADES DTH","elementImage":"files\\bpmnElements\\NoneIntermediate.png","imageBounds":{"points":[{"x":150.0,"y":715.0}],"radius":15.0,"height":30.0,"width":30.0,"shape":"circle"},"elementType":"NoneIntermediate"},{"id":"ad23f92e-bb24-4e8e-b37b-ffbf5ba85b90","name":"Creación Orden de Venta DTH","elementImage":"files\\bpmnElements\\AbstractTask.png","imageBounds":{"points":[{"x":234.0,"y":700.0}],"radius":0.0,"height":60.0,"width":90.0,"shape":"rect"},"elementType":"AbstractTask","properties":[]},{"id":"9f5be219-9289-421a-8be5-4b26ff894f86","name":"CREACION ENTIDADES  DTH/TELMEX","elementImage":"files\\bpmnElements\\NoneIntermediate.png","imageBounds":{"points":[{"x":148.0,"y":817.0}],"radius":15.0,"height":30.0,"width":30.0,"shape":"circle"},"elementType":"NoneIntermediate"},{"id":"10987a7f-196f-413f-988e-0fb62289c49e","name":"Creacion  Orden de Venta DTH+TMX","elementImage":"files\\bpmnElements\\AbstractTask.png","imageBounds":{"points":[{"x":243.0,"y":802.0}],"radius":0.0,"height":60.0,"width":90.0,"shape":"rect"},"elementType":"AbstractTask","properties":[]},{"id":"fda1c841-83f0-44a7-8141-919d2be2f7d8","name":"Solicitar cita SICOTRA","elementImage":"files\\bpmnElements\\AbstractTask.png","imageBounds":{"points":[{"x":516.0,"y":700.0}],"radius":0.0,"height":60.0,"width":90.0,"shape":"rect"},"elementType":"AbstractTask","properties":[]},{"id":"325657fa-8fec-433c-8c7e-7a5137c19567","name":"Instalación de DTH","elementImage":"files\\bpmnElements\\AbstractTask.png","imageBounds":{"points":[{"x":642.0,"y":700.0}],"radius":0.0,"height":60.0,"width":90.0,"shape":"rect"},"elementType":"AbstractTask","properties":[]},{"id":"cc4b4262-dc74-4fce-8e33-9af2ae756a2e","name":"Recuperación de assets","elementImage":"files\\bpmnElements\\AbstractTask.png","imageBounds":{"points":[{"x":1581.0,"y":775.0}],"radius":0.0,"height":60.0,"width":90.0,"shape":"rect"},"elementType":"AbstractTask","properties":[]},{"id":"a35dcea9-8237-4a17-82cf-d1ca4f0f570b","name":"CAMBIO DOMICILIO DTH","elementImage":"files\\bpmnElements\\NoneIntermediate.png","imageBounds":{"points":[{"x":955.0,"y":686.0}],"radius":15.0,"height":30.0,"width":30.0,"shape":"circle"},"elementType":"NoneIntermediate"},{"id":"58dc431d-3f97-4b42-a85d-f6ce0ece5247","name":"Crear ordenes de cambio de domicilio","elementImage":"files\\bpmnElements\\AbstractTask.png","imageBounds":{"points":[{"x":1064.0,"y":671.0}],"radius":0.0,"height":60.0,"width":90.0,"shape":"rect"},"elementType":"AbstractTask","properties":[]},{"id":"ee284326-548b-4f04-8001-5e419b252de0","name":"Recuperación de assets","elementImage":"files\\bpmnElements\\AbstractTask.png","imageBounds":{"points":[{"x":1205.0,"y":774.0}],"radius":0.0,"height":60.0,"width":90.0,"shape":"rect"},"elementType":"AbstractTask","properties":[]}]},{"id":"bd2d35d8-77a2-49b0-9a4a-4ad3ebb2ca4c","name":"ODI","elementImage":"files\\bpmnElements\\Participant.png","imageBounds":{"points":[{"x":20.0,"y":894.0}],"radius":0.0,"height":210.0,"width":50.0,"shape":"rect"},"elementType":"Participant","properties":[],"pageElements":[{"id":"387c8582-21ab-43be-bb01-14489b8d60e3","name":"Importar solicitudes  liquidadas","elementImage":"files\\bpmnElements\\UserTask.png","imageBounds":{"points":[{"x":868.0,"y":914.0}],"radius":0.0,"height":60.0,"width":90.0,"shape":"rect"},"elementType":"UserTask","properties":[]},{"id":"57cd7388-bf6b-4f4e-8ec6-513bf64941ad","name":"CREACION ENTIDADES  DTH/TELMEX","elementImage":"files\\bpmnElements\\NoneIntermediate.png","imageBounds":{"points":[{"x":710.0,"y":929.0}],"radius":15.0,"height":30.0,"width":30.0,"shape":"circle"},"elementType":"NoneIntermediate"}]}]}],"texts":{"tableOfContents":"Table of Contents","pageNumber":"Page","pageNumberLabelOf":"of","version":"Version","author":"Author","description":"Description","mainPool":"Main Process","mainPoolDescription":"Main Process Description","processDiagrams":"Process Diagrams","processElements":"Process Elements","elements":"Process Elements","defaultElementName":"Element","performers":"Performers","connectors":"Connectors","connector":"Connector","home":"Home","search":"Search","goToParentProcess":"<< Go to Parent Process","visitBizagi":"Visit bizagi.com","contains":"Contains {0} Sub-Processes","showAll":"Show all","fullScreen":"Full screen","zoomIn":"Zoom In","zoomOut":"Zoom Out","close":"Close","menu":"Menu: ","errorPage":"Error when visualizing page","process":"Process","subProcess":"Published Sub-Processes","contain":"Contains","checkAttributes":"Check attributes","checkOverview":"Check overview","unavailableResource":"Unavailable resource","localResource":"Resource can be accessed locally","performer":"Performer","linktoimage":"Link to Image","presentationAction":"Presentation Actions","searchGlobal":"Search all","searchLocal":"Search in this process","searchResults":"No Results Found","titlePage":"Start","emptyElement":"This element has not yet been documented","unsupported":"Your browser does not support content displayed by this page. <br> We recommend you upgrading your browser.","details":"Details","expand":"Expand","mainPoolProperties":"Main Process properties","cannotVisualize":"The page cannot be displayed","resourceNotFound":"The requested resource was not found:","applyTheme":"Applying new theme"},"searchMap":[{"containerId":"7cb50fa5-7a3c-45aa-be1c-2d9583645de9","containerName":"DISH-NEXT_VENTA-CAMBIO DOMICILIO","isSubprocess":false,"elements":[{"id":"93e064cd-c629-4cf5-a039-03b3dc27eac9","value":"SEG (TELMEX)"},{"id":"f31167ef-3e58-4c0e-a348-99304c43ca87","value":"FACILIDADES?"},{"id":"e77a9377-ff3c-443c-bf80-e8d5c8d0941c","value":"Crear orden de venta"},{"id":"2c8036f7-3e22-478b-9892-5d5232a3b2d0","value":"FACILIDADES?"},{"id":"4dfccb45-7921-4bf5-9c07-d224dc0bb866","value":"Validar  facilidades"},{"id":"21fc4a87-d1b8-4bb2-acf2-2b48f1f00034","value":"SALVAMENTO DE VENTA?"},{"id":"dc6120c9-fd25-4e48-9eca-cac9e8092c54","value":"FIN"},{"id":"0ee065b0-9332-41a6-83a8-d59f9b373b6a","value":"¿Requiere el resto de los servicios?"},{"id":"29b2dd46-ac85-41be-8745-073ad0f5984a","value":"CAMBIO DE DOMICILIO"},{"id":"b319792c-57cc-47d5-88d2-d68802c5dacb","value":"Confirmaicón de cita"},{"id":"3f8dc354-4ab1-4fbc-ac39-2dab57a00afa","value":"INSTALACION TELMEX"},{"id":"7be1b341-8886-430c-bfd1-7e8eb0e116a4","value":"Extracción de reportes  solicitudes liquidadas"},{"id":"26c36fce-854c-45a4-9187-e0244161bcdf","value":"Contactar a cliente si desea el resto de los servicios"},{"id":"0819e974-5805-4c60-904a-944859449d3f","value":"Creación de Servicio Nvo Domicilio"},{"id":"598e9e10-8f21-4f8a-815e-d01702e80421","value":"Validación con cliente  del resto de servicios"},{"id":"acc53f19-4f12-4bd7-89dd-0b43406d8d4f","value":"Creación de orden de servicio"},{"id":"f0bffaee-71be-48f2-b4c1-9a22539a86d5","value":"Cancelación de servicio"},{"id":"45daec74-d1b5-4f09-9f84-82a99672325a","value":"Exportar IDTMX-DTH"},{"id":"8a56f3c5-ad15-4adf-b8b0-2a1c09bd55dc","value":"Validar  facilidades Nuevo domicilio"},{"id":"217c520e-6acb-476d-832a-3e05e26f05cb","value":"CAMBIO DOMICILIO DTH"},{"id":"33c91d8f-7d41-4180-ade1-7b37418c89e7","value":"Confirmación de cita"},{"id":"61bb27a2-3c1c-44e7-8fe9-9b02062eb794","value":"PRECAPTURA"},{"id":"601c1d0b-8e19-4b3e-9f3c-c071c3dc214e","value":""},{"id":"f9f49f72-6207-4fb8-81ad-ed5b83daf9f1","value":"INTERNET +  VOZ"},{"id":"ddacde49-5ae2-44d4-8fa7-fa46bc08dbd2","value":"VOZ"},{"id":"e2fbc10d-141e-4c3e-8de6-b02dd73b6629","value":"INTERNET + VOZ + DISH"},{"id":"21f8afb0-a697-4f5a-9d4a-7888ab6b1f29","value":"TIPO DE SOLICITUD"},{"id":"256f5ab5-7436-4788-8b88-8d0a8ed46b7a","value":"Captura de datos"},{"id":"df2d2a26-b8e1-4b58-a849-efcc2fe1d782","value":"Exportar  Reporte de solicitudes de ventas"},{"id":"cfb941a8-4012-4174-97d4-6598748a3e4d","value":"PRODUCTO TELMEX?"},{"id":"b3f08775-b814-41f3-9c72-0837a99544e7","value":"Actualizar la Orden con la confirmación de Facilidades"},{"id":"7c8f5203-5f09-48ef-81a6-0b441251ffeb","value":"CREACION ENTIDADES DTH"},{"id":"9ef95241-d4d6-4733-b77e-d209d63d24c7","value":"Downgrade del paquete original"},{"id":"d8f90e6f-49fa-4cf5-86f4-3f4b59e9bf58","value":"Actualizar fecha instalación TELMEX"},{"id":"9d3bbc49-652e-464e-a19c-f2a67faa8e94","value":"STAND BY INSTALACION"},{"id":"160b53e7-1fde-4417-ab4a-280543cc1820","value":"CRM"},{"id":"44122ce0-51f7-4ca6-9b0d-4d5b24743c73","value":"Creación de entidades"},{"id":"55fe1bdd-03b1-449e-833f-d05f4fcd7d9b","value":"FIN"},{"id":"d1162d1f-9448-429c-8473-ae6ac31399bf","value":"Ejecución de servicio"},{"id":"01e534e1-b53f-45c2-9838-3acd71c2b958","value":""},{"id":"0a791ef5-bc81-49a5-a3da-fd4cfd7029e6","value":"Programación del servicio"},{"id":"e2adbab7-5505-46c1-bc6e-a09f9c56946e","value":"Cancelación de servicios"},{"id":"cc1445f6-6a79-4873-9ddd-98e4d60ec6e3","value":"Creación de Orden Downgrade"},{"id":"4623ca73-1e5b-4260-8541-f18c4fc24b88","value":"CREACION ENTIDADES DTH"},{"id":"fda1c841-83f0-44a7-8141-919d2be2f7d8","value":"Solicitar cita SICOTRA"},{"id":"325657fa-8fec-433c-8c7e-7a5137c19567","value":"Instalación de DTH"},{"id":"9f5be219-9289-421a-8be5-4b26ff894f86","value":"CREACION ENTIDADES  DTH/TELMEX"},{"id":"10987a7f-196f-413f-988e-0fb62289c49e","value":"Creacion  Orden de Venta DTH+TMX"},{"id":"ad23f92e-bb24-4e8e-b37b-ffbf5ba85b90","value":"Creación Orden de Venta DTH"},{"id":"cc4b4262-dc74-4fce-8e33-9af2ae756a2e","value":"Recuperación de assets"},{"id":"ee284326-548b-4f04-8001-5e419b252de0","value":"Recuperación de assets"},{"id":"a35dcea9-8237-4a17-82cf-d1ca4f0f570b","value":"CAMBIO DOMICILIO DTH"},{"id":"58dc431d-3f97-4b42-a85d-f6ce0ece5247","value":"Crear ordenes de cambio de domicilio"},{"id":"bd2d35d8-77a2-49b0-9a4a-4ad3ebb2ca4c","value":"ODI"},{"id":"57cd7388-bf6b-4f4e-8ec6-513bf64941ad","value":"CREACION ENTIDADES  DTH/TELMEX"},{"id":"387c8582-21ab-43be-bb01-14489b8d60e3","value":"Importar solicitudes  liquidadas"}]}]}
